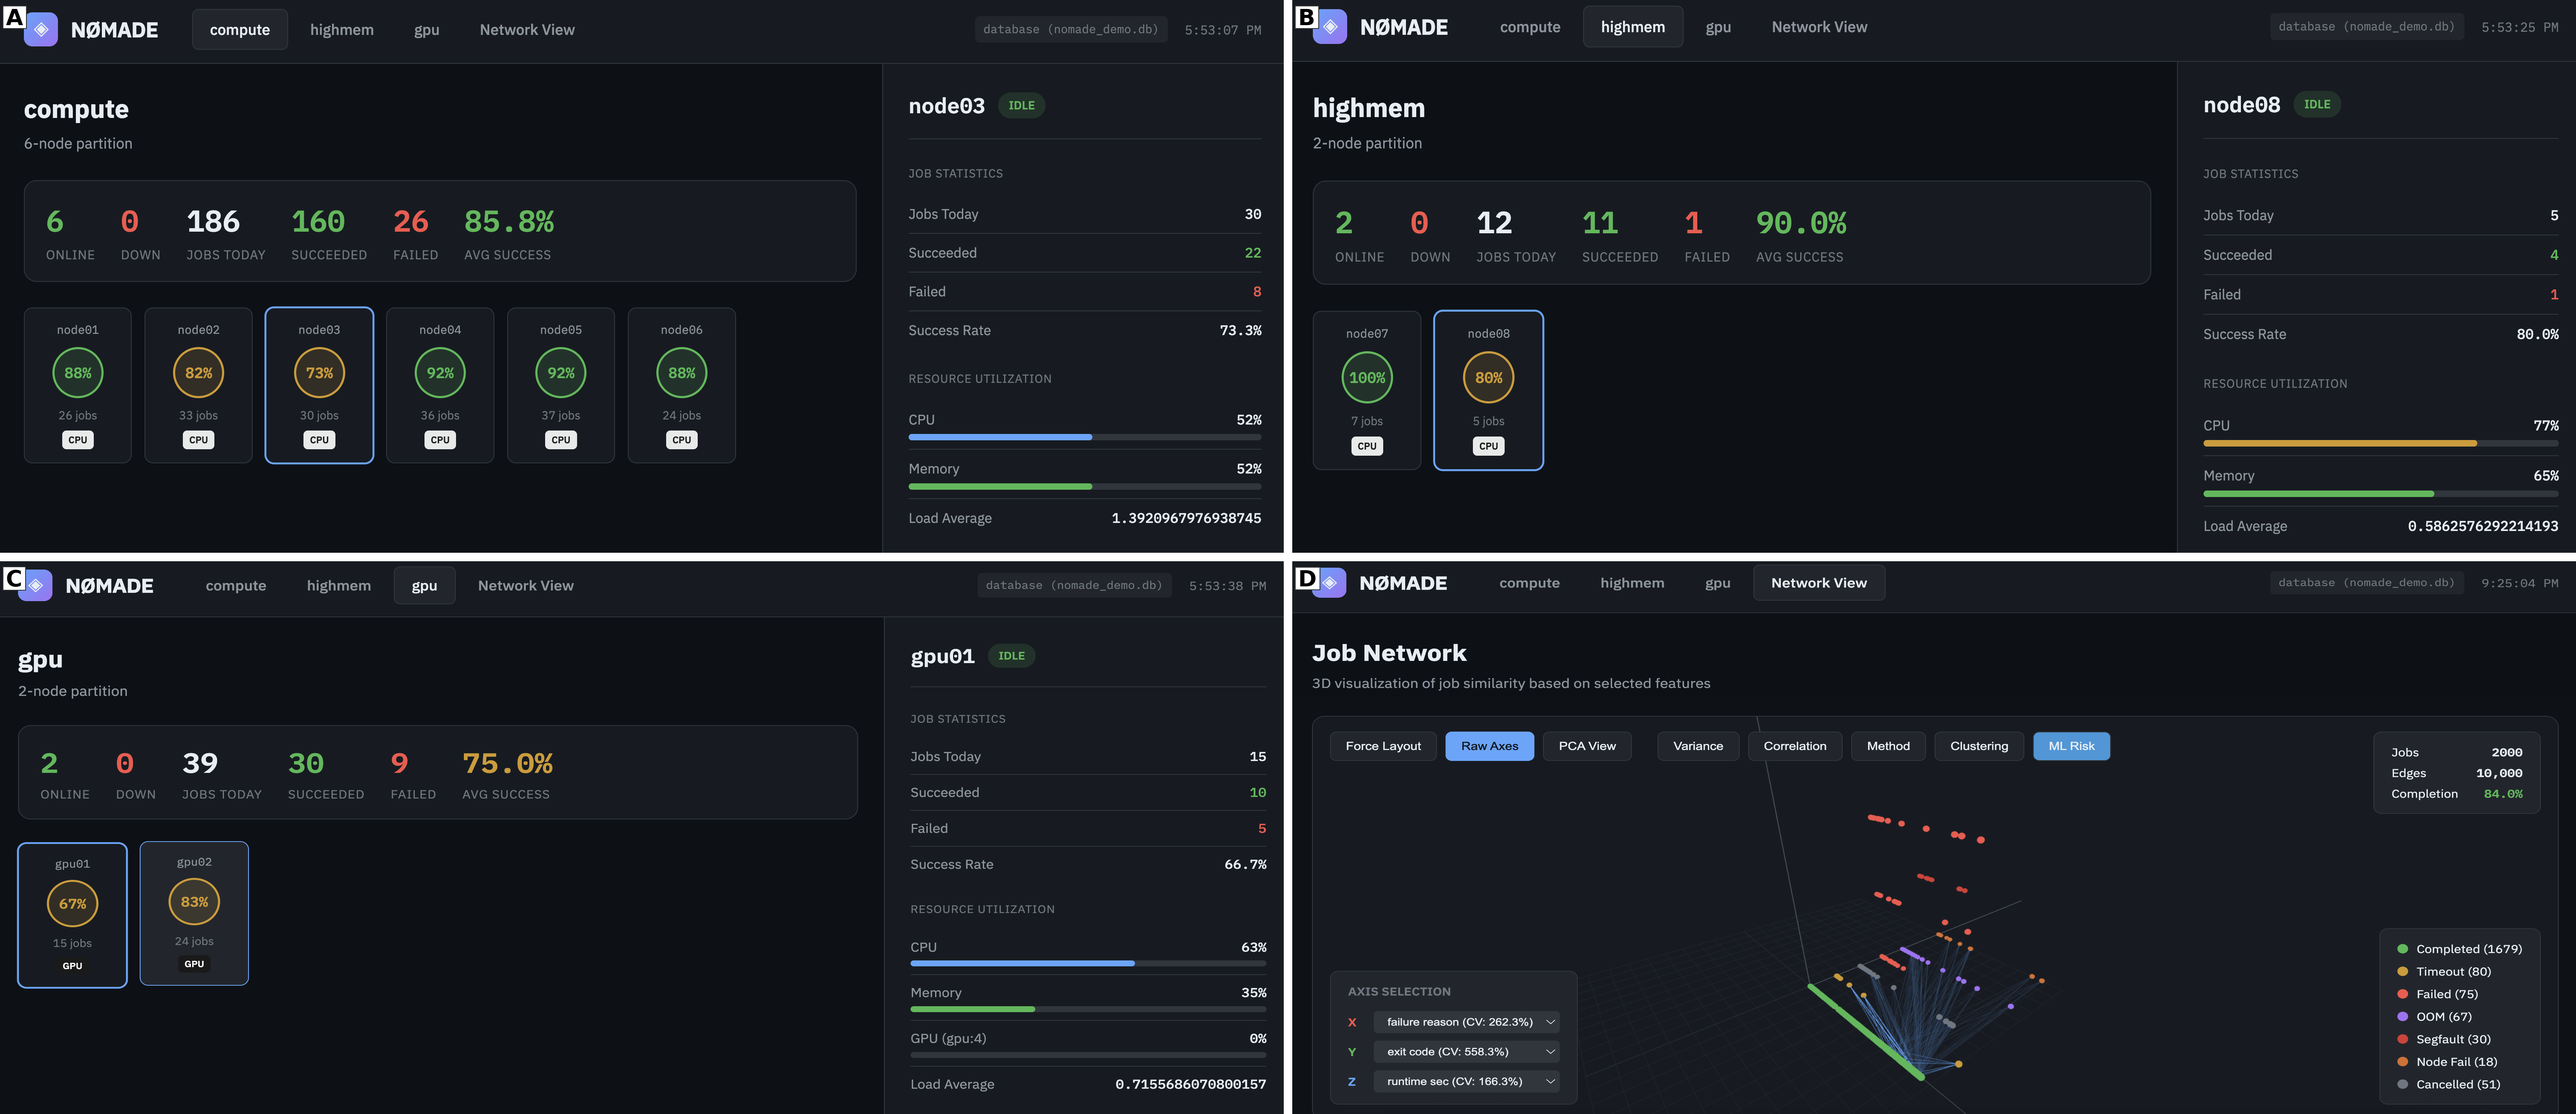
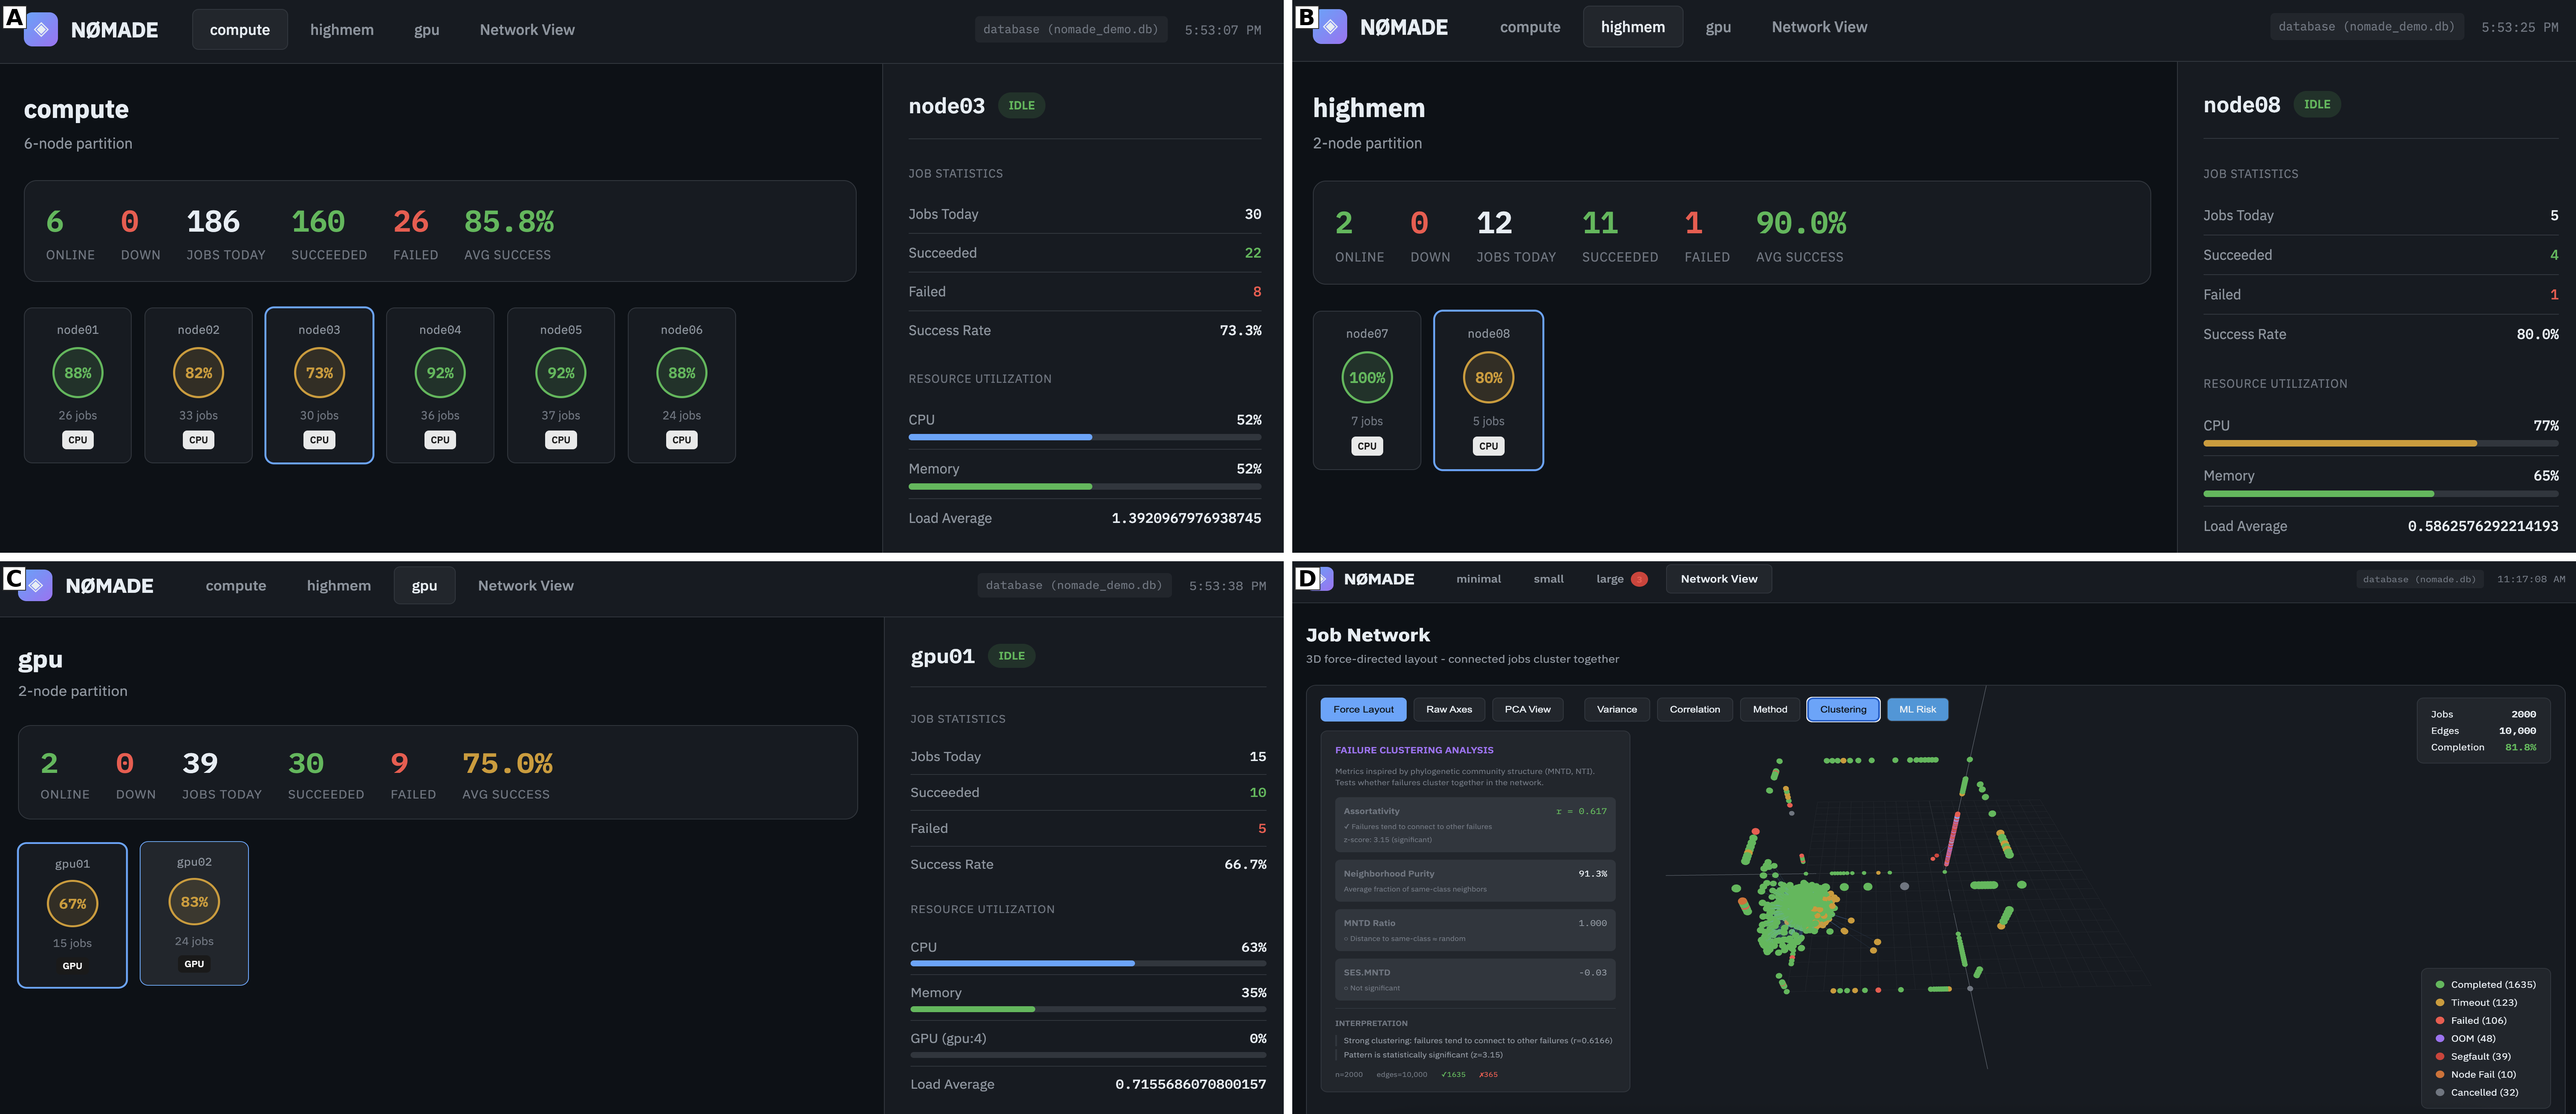
Update JOSS paper: cosine similarity, new network figure
- Change 'Simpson similarity' to 'cosine similarity' in text
- Regenerate network screenshot with cosine-based clustering
- Rebuild JOSS PDF

diff --git a/paper/paper.md b/paper/paper.md
@@ -61,7 +61,7 @@ NØMADE is implemented in Python using scikit-learn [@scikit-learn], PyTorch [@p
 
 **ML Prediction** uses an ensemble of three models:
 
-- Graph Neural Network (GNN): Captures relationships between similar jobs based on Simpson similarity of feature vectors
+- Graph Neural Network (GNN): Captures relationships between similar jobs based on cosine similarity of feature vectors
 - LSTM: Detects temporal patterns and early warning trajectories
 - Autoencoder: Identifies anomalous jobs that deviate from normal behavior
 
